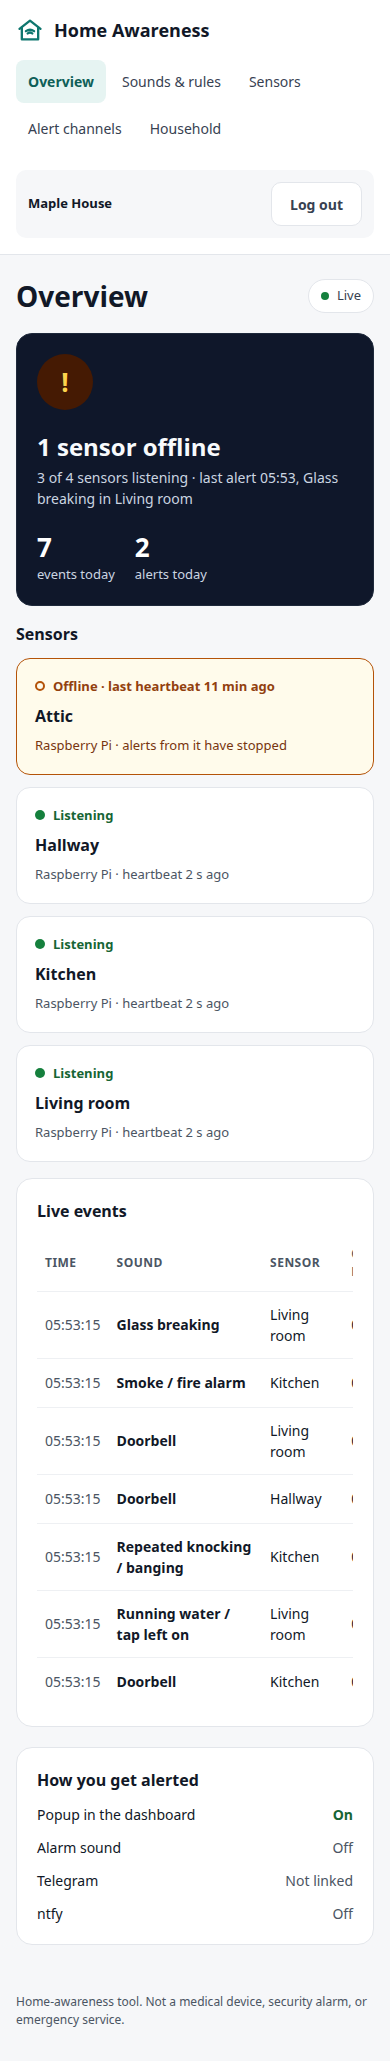
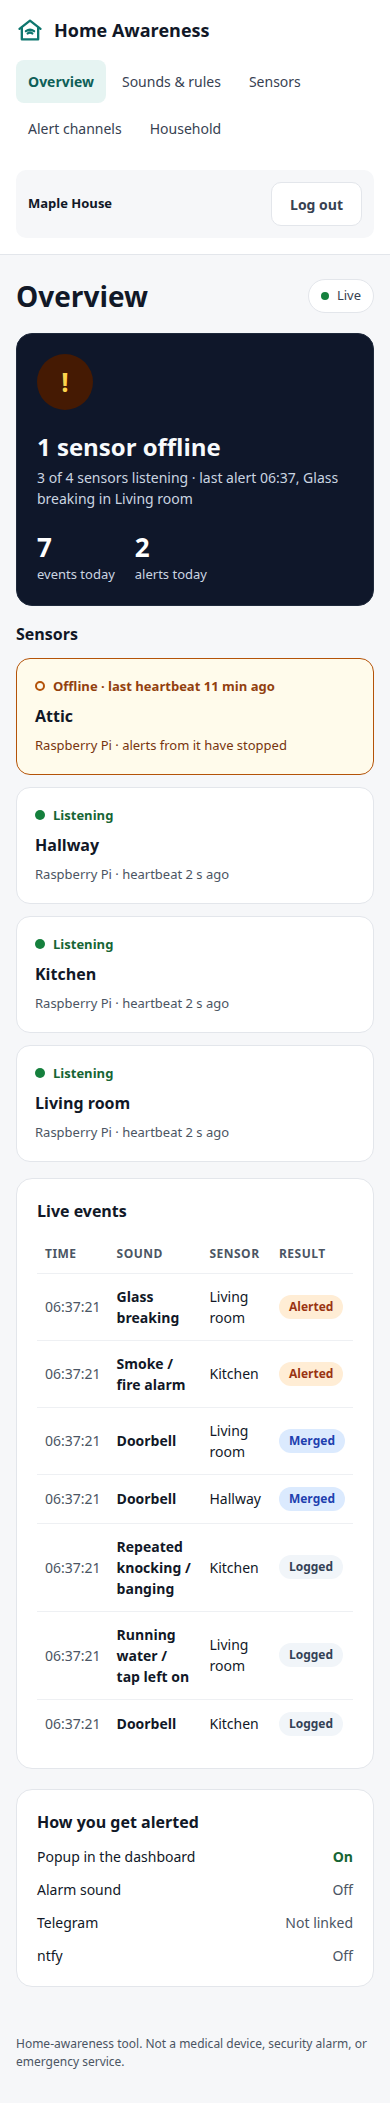
fix(web): 'Notifications are on' when granted; phone overview hides Confidence (M6, M8)
Screenshots regenerated. The screenshot script acknowledges its seeded
alerts (the alert screen's catch-up would otherwise cover every view) and
waits out the 600 ms button guard before the alert shot.

diff --git a/app/web/static/js/views/overview.js b/app/web/static/js/views/overview.js
@@ -162,7 +162,7 @@ export async function overviewView(_params, { household }) {
     el("table", { class: "events-table", "aria-labelledby": "feed-h" },
       el("thead", {}, el("tr", {},
         ["Time", "Sound", "Sensor", "Confidence", "Result"].map((h) =>
-          el("th", { scope: "col" }, h)))),
+          el("th", { scope: "col", class: h === "Confidence" ? "col-conf" : null }, h)))),
       tbody)),
   emptyNote);
 
@@ -247,7 +247,7 @@ export async function overviewView(_params, { household }) {
         el("td", { class: "cell-time" }, fmt.time(new Date(e.received_at))),
         el("td", { class: "cell-sound" }, e.label),
         el("td", {}, e.device_name || "Removed sensor"),
-        el("td", {}, Number(e.confidence).toFixed(2)),
+        el("td", { class: "col-conf" }, Number(e.confidence).toFixed(2)),
         el("td", {}, el("span", { class: `chip ${cls}` }, text)));
     }));
     emptyNote.hidden = rows.length > 0;

diff --git a/app/web/static/js/views/channels.js b/app/web/static/js/views/channels.js
@@ -262,10 +262,17 @@ export async function channelsView() {
       : "This browser doesn't support notifications.");
   const notifyBtn = el("button", { type: "button", class: "btn btn-quiet",
     disabled: !supported }, "Enable browser notifications");
+  function notifyButtonFor(permission) {
+    if (permission !== "granted") return;
+    notifyBtn.disabled = true;
+    notifyBtn.textContent = "Notifications are on";
+  }
+  if (supported) notifyButtonFor(Notification.permission);
   notifyBtn.addEventListener("click", async () => {
     try {
       const result = await Notification.requestPermission();
       notifyMsg.textContent = permissionText(result);
+      notifyButtonFor(result);
     } catch {
       notifyMsg.textContent = "This browser didn't let the page ask.";
     }

diff --git a/app/web/static/styles.css b/app/web/static/styles.css
@@ -219,6 +219,12 @@ h2 { font-size: 16px; }
 .ch-on { color: var(--ok-ink); font-weight: 600; }
 .ch-off { color: var(--muted); }
 
+/* Phones: drop Confidence so the Result chip fits without sideways scrolling. */
+@media (max-width: 479.98px) {
+  .events-table { min-width: 0; }
+  .events-table .col-conf { display: none; }
+}
+
 @media (max-width: 640px) {
   .status-card { padding: 20px; }
   .status-counts { gap: 20px; }

diff --git a/tests/web/test_settings_ui.py b/tests/web/test_settings_ui.py
@@ -160,10 +160,9 @@ def test_each_route_focuses_its_heading(page, live):
     m = _member(live)
     _open(page, m, "#/sensors")
     expect(page.get_by_role("heading", level=1, name="Sensors")).to_be_focused()
-    for link, heading in (("Overview", "Overview"), ("Alert channels", "Alert channels"),
-                          ("Household", "Household"), ("Sounds & rules", "Sounds & rules")):
-        page.get_by_role("link", name=link).click()
-        expect(page.get_by_role("heading", level=1, name=heading)).to_be_focused()
+    for name in ("Overview", "Alert channels", "Household", "Sounds & rules"):
+        page.get_by_role("link", name=name).click()  # each link's view has the same h1
+        expect(page.get_by_role("heading", level=1, name=name)).to_be_focused()
     page.get_by_role("button", name="Log out").click()
     expect(page.get_by_role("heading", level=1, name="Log in")).to_be_focused()
 
@@ -236,11 +235,23 @@ def test_telegram_link_opens_a_validated_deep_link(page, live, monkeypatch):
 
 def test_enable_browser_notifications_shows_the_result(new_page, live):
     page = _page(new_page)  # stubbed Notification: requestPermission -> "granted"
+    page.add_init_script("Notification.permission = 'default'")
     m = _member(live)
     _open(page, m, "#/channels")
     page.get_by_role("button", name="Enable browser notifications").click()
     expect(page.locator(".notify-msg")).to_contain_text("allowed")
     assert page.evaluate("window.__permissionAsked") == 1
+    on = page.get_by_role("button", name="Notifications are on")
+    expect(on).to_be_disabled()
+    expect(page.get_by_role("button", name="Enable browser notifications")).to_have_count(0)
+
+
+def test_notifications_already_granted_shows_them_on(new_page, live):
+    page = _page(new_page)  # stubbed Notification.permission = "granted"
+    m = _member(live)
+    _open(page, m, "#/channels")
+    expect(page.get_by_role("button", name="Notifications are on")).to_be_disabled()
+    expect(page.locator(".notify-msg")).to_contain_text("allowed")
 
 
 def test_notifications_not_enabled_copy_is_accurate(new_page, live):

diff --git a/tests/web/test_overview.py b/tests/web/test_overview.py
@@ -276,7 +276,7 @@ def test_device_name_is_text_not_html(page, live):
     assert dialogs == []
 
 
-def test_events_table_scrolls_inside_its_box_at_phone_width(new_page, live):
+def test_phone_width_shows_the_result_chip_without_scrolling(new_page, live):
     page = new_page(viewport={"width": 360, "height": 740})
     m = _member(live)
     hall = _device(live, m, "A sensor with a fairly long name")
@@ -285,9 +285,28 @@ def test_events_table_scrolls_inside_its_box_at_phone_width(new_page, live):
     _open(page, m)
     expect(_rows(page)).to_have_count(1)
     box = page.locator(".table-scroll")
-    assert box.evaluate("e => getComputedStyle(e).overflowX") == "auto"
-    assert box.evaluate("e => e.scrollWidth > e.clientWidth")  # the table scrolls in its box
+    assert box.evaluate("e => getComputedStyle(e).overflowX") == "auto"  # still a safety net
+    expect(page.get_by_role("columnheader", name="Confidence")).to_be_hidden()
+    expect(page.get_by_role("columnheader", name="Result")).to_be_visible()
+    chip = _rows(page).first.locator(".chip")
+    expect(chip).to_be_visible()
+    inside = box.evaluate(
+        "(b, c) => c.getBoundingClientRect().right <= b.getBoundingClientRect().right + 0.5",
+        chip.element_handle(),
+    )
+    assert inside  # no sideways scroll needed to read the result
+    assert box.evaluate("e => e.scrollLeft") == 0
     assert page.evaluate("document.documentElement.scrollWidth <= window.innerWidth")
+
+
+def test_laptop_width_shows_the_confidence_column(new_page, live):
+    page = new_page(viewport={"width": 1280, "height": 800})
+    m = _member(live)
+    _event(live, _device(live, m))
+    _open(page, m)
+    expect(_rows(page)).to_have_count(1)
+    expect(page.get_by_role("columnheader", name="Confidence")).to_be_visible()
+    expect(_rows(page).first.locator("td").nth(3)).to_have_text(re.compile(r"^\d\.\d\d$"))
 
 
 def test_backoff_grows_when_the_server_drops_every_socket_at_once(page, live):

diff --git a/scripts/dashboard_screenshots.py b/scripts/dashboard_screenshots.py
@@ -38,6 +38,15 @@ HEADINGS = {
 PUBLIC = ["login", "signup"]
 
 
+def _ack(live, member, alert_ids):
+    import httpx
+
+    for alert_id in alert_ids:
+        httpx.post(
+            f"{live.base_url}/alerts/{alert_id}/ack", headers=member.headers
+        ).raise_for_status()
+
+
 def seed(live):
     """A household with three online sensors, one offline, one waiting to pair, some history."""
     import httpx
@@ -57,6 +66,7 @@ def seed(live):
         event_id, alert_ids = _alerting_event(live, d, kind)
         ids += alert_ids
     _deliver(live, *ids)
+    _ack(live, owner, ids)  # handled history: the alert screen's catch-up leaves it alone
     _go_offline(live, attic.id)
     httpx.post(  # a sensor still waiting to be paired
         f"{live.base_url}/devices/pairing-codes",
@@ -109,8 +119,12 @@ def main():
                 live.redis.flushall()  # forget the cooldown from the previous pass
                 _, alert_ids = _alerting_event(live, living, "scream")
                 _deliver(live, *alert_ids)
-                expect(page.get_by_role("alertdialog")).to_be_visible()
+                screen = page.get_by_role("alertdialog")
+                expect(screen).to_be_visible()
+                # past the 600 ms stray-key guard, so the buttons show as they will be used
+                expect(screen.get_by_role("button", name="I'm on it")).to_be_enabled()
                 page.screenshot(path=OUT / f"alert-{size}.png")
+                _ack(live, owner, alert_ids)  # so the next size's fresh session starts clear
                 ctx.close()
             browser.close()
         finally:
